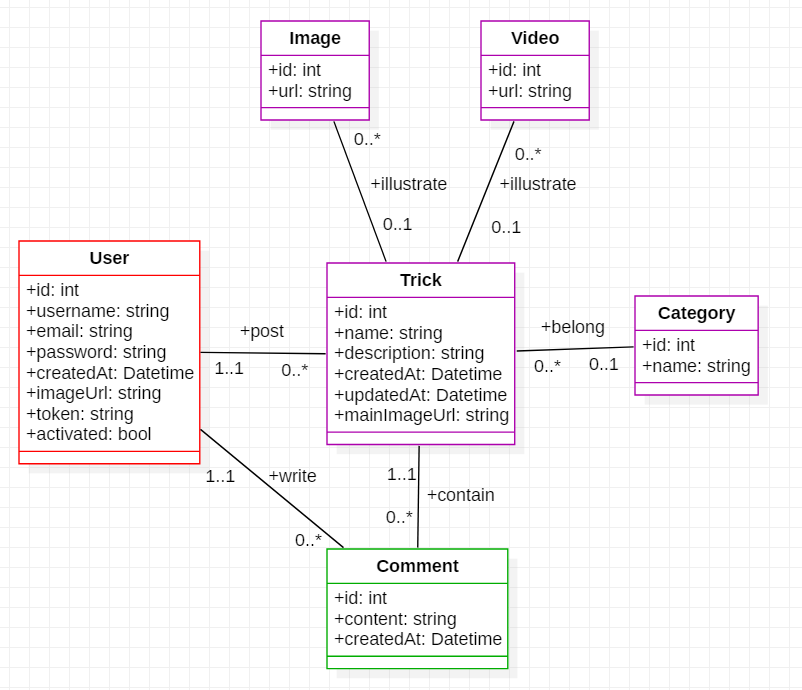
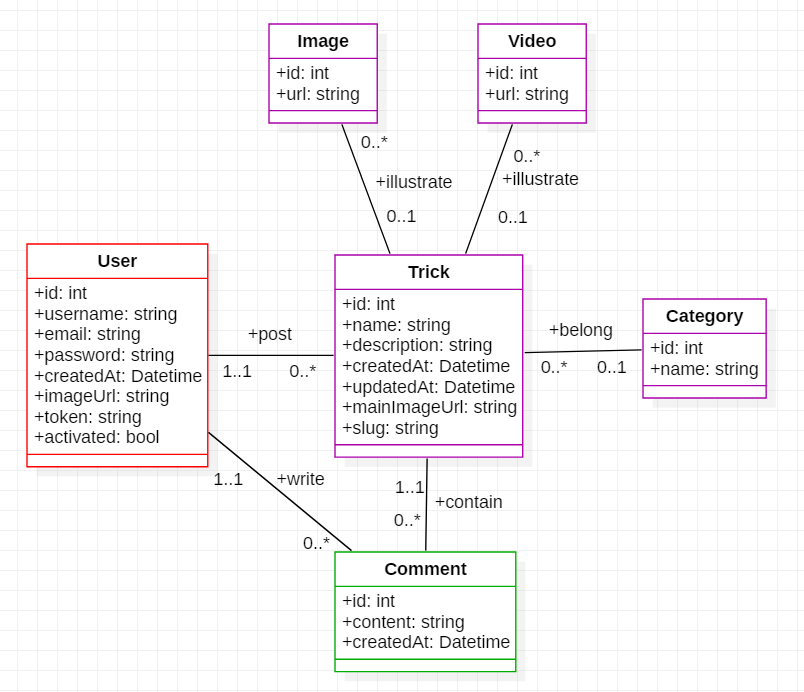
Add a slug property to Trick Entity

Changed region(s): [[0.0312, 0.0304, 0.9663, 0.9739], [0.5923, 0.0304, 0.7481, 0.3348]]

diff --git a/src/Migrations/Version20190102005904.php b/src/Migrations/Version20190102005904.php
@@ -1,0 +1,28 @@
+<?php declare(strict_types=1);
+
+namespace DoctrineMigrations;
+
+use Doctrine\DBAL\Schema\Schema;
+use Doctrine\Migrations\AbstractMigration;
+
+/**
+ * Auto-generated Migration: Please modify to your needs!
+ */
+final class Version20190102005904 extends AbstractMigration
+{
+    public function up(Schema $schema) : void
+    {
+        // this up() migration is auto-generated, please modify it to your needs
+        $this->abortIf($this->connection->getDatabasePlatform()->getName() !== 'mysql', 'Migration can only be executed safely on \'mysql\'.');
+
+        $this->addSql('ALTER TABLE trick ADD slug VARCHAR(255) NOT NULL');
+    }
+
+    public function down(Schema $schema) : void
+    {
+        // this down() migration is auto-generated, please modify it to your needs
+        $this->abortIf($this->connection->getDatabasePlatform()->getName() !== 'mysql', 'Migration can only be executed safely on \'mysql\'.');
+
+        $this->addSql('ALTER TABLE trick DROP slug');
+    }
+}

diff --git a/src/Entity/Trick.php b/src/Entity/Trick.php
@@ -44,6 +44,11 @@ class Trick
     private $mainImageUrl;
 
     /**
+     * @ORM\Column(type="string", length=255)
+     */
+    private $slug;
+
+    /**
      * @ORM\OneToMany(targetEntity="App\Entity\Image", mappedBy="trick")
      */
     private $images;
@@ -137,6 +142,18 @@ class Trick
     public function setMainImageUrl(string $mainImageUrl): self
     {
         $this->mainImageUrl = $mainImageUrl;
+
+        return $this;
+    }
+
+    public function getSlug(): ?string
+    {
+        return $this->slug;
+    }
+
+    public function setSlug(string $slug): self
+    {
+        $this->slug = $slug;
 
         return $this;
     }
